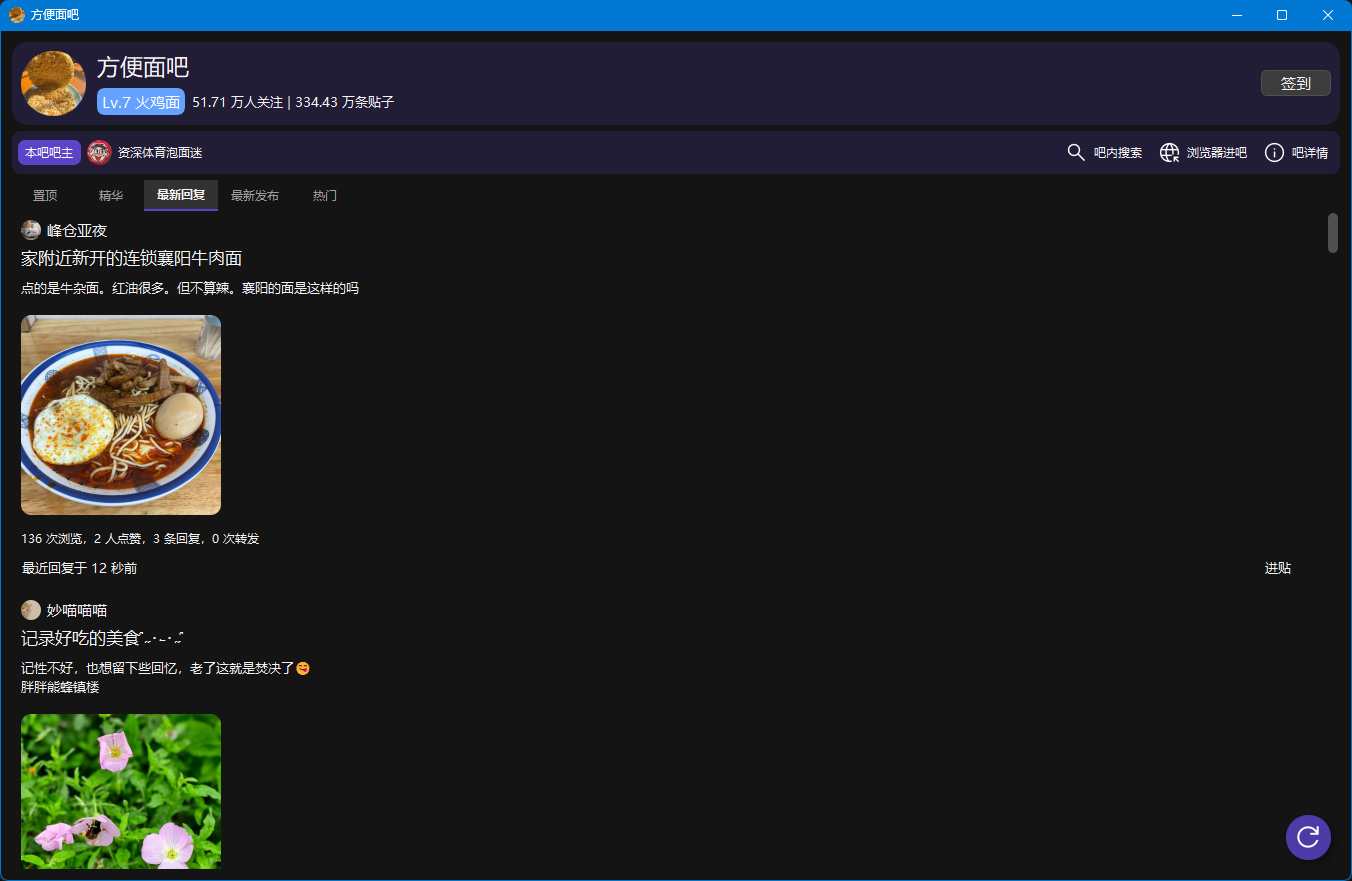
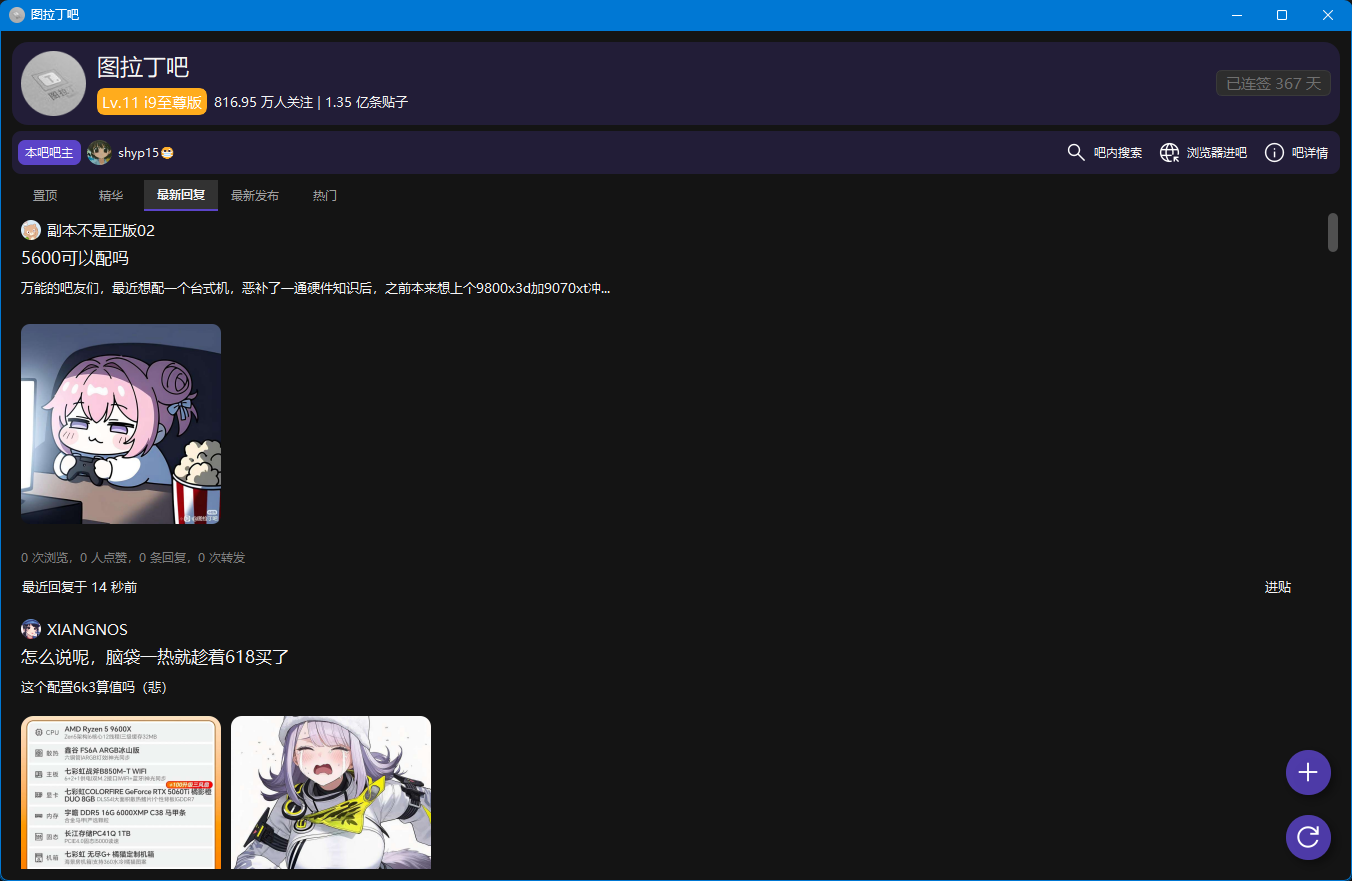
fix: 发贴功能方法调用不对的问题

diff --git a/src/subwindow/thread_publisher.py b/src/subwindow/thread_publisher.py
@@ -321,7 +321,7 @@ class ThreadPublisherWindow(base_ui.WindowBaseQDialog, thread_publisher.Ui_Dialo
                 dialog = AddPostCaptchaWebView(md5, h5_link)
                 md5, json_info = dialog.exec_window()
                 if json_info:
-                    self.add_post_async(md5, json_info)
+                    self.add_thread_async(md5, json_info)
                 else:
                     self.toast_widget.showToast(top_toast_widget.ToastMessage('用户已取消交互验证',
                                                                               icon_type=top_toast_widget.ToastIconType.INFORMATION))
@@ -395,7 +395,7 @@ class ThreadPublisherWindow(base_ui.WindowBaseQDialog, thread_publisher.Ui_Dialo
                 emit_data['is_captcha'] = True
                 emit_data['captcha_info']['md5'] = result.data.info.vcode_md5
                 emit_data['captcha_info']['link'] = result.data.info.vcode_pic_url
-                emit_data['text'] = '服务器要求输入验证码，请在弹出的验证网页中完成验证。如多次弹出验证，建议使用官方客户端发贴'
+                emit_data['text'] = '服务器要求安全风控验证，请在弹出的验证网页中完成验证。如多次弹出验证，建议使用官方客户端发贴'
             else:
                 emit_data['success'] = False
                 emit_data['text'] = f'{result.error.errmsg} (错误代码 {result.error.errorno})'